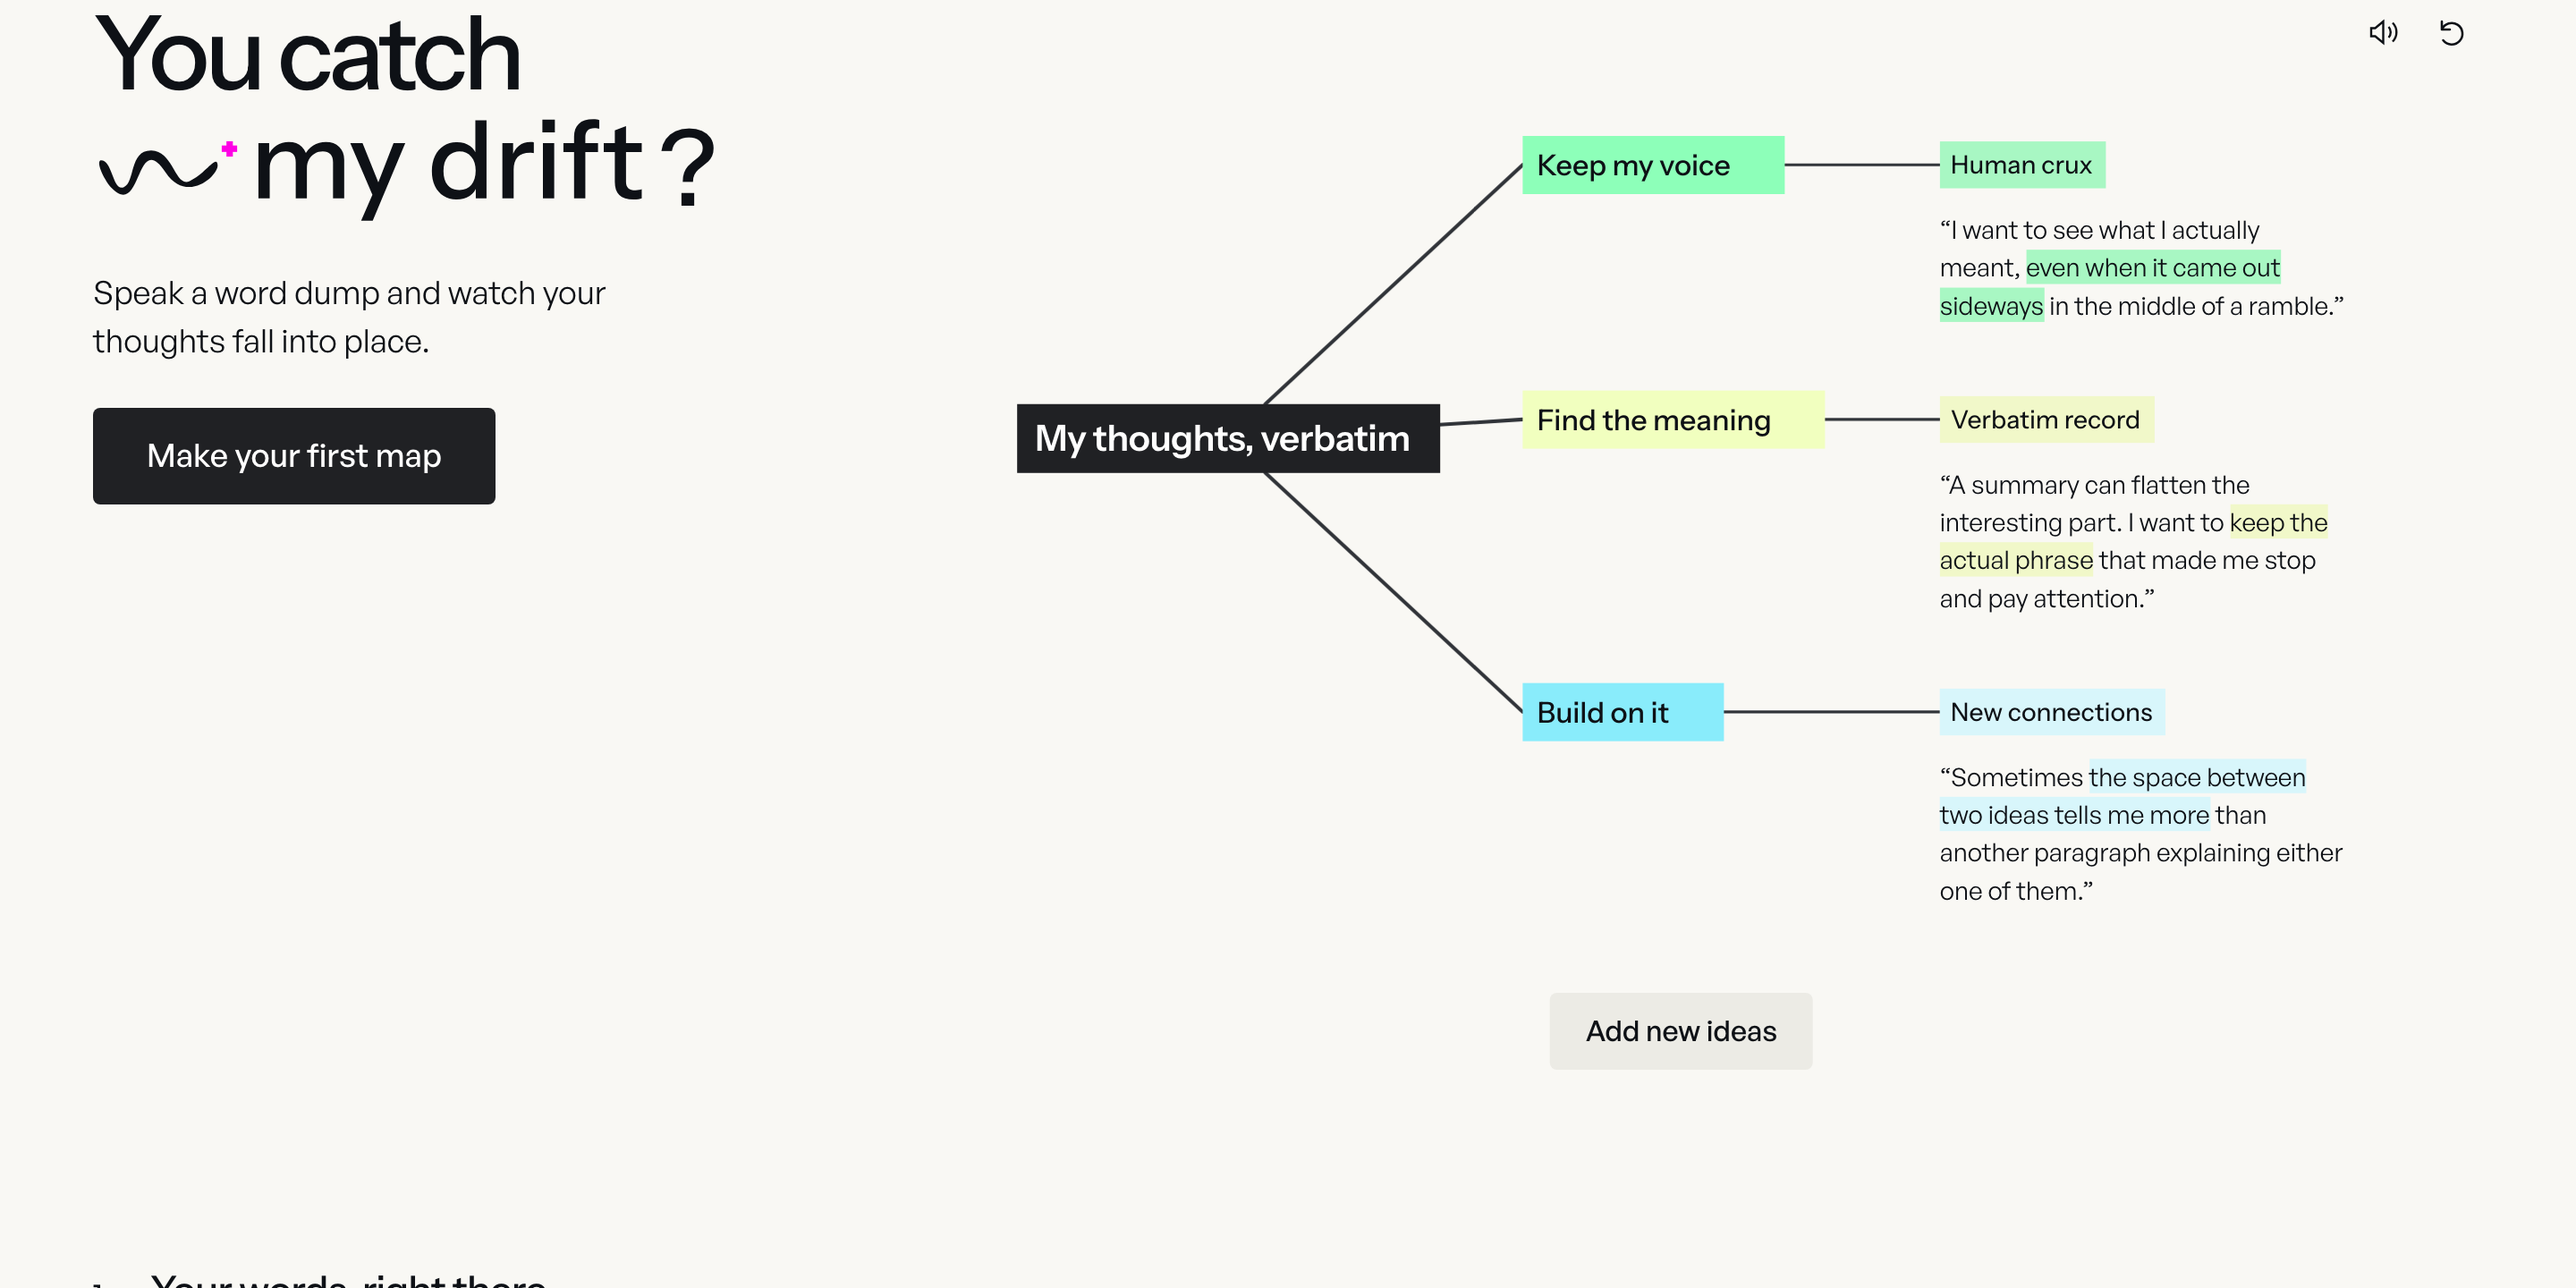
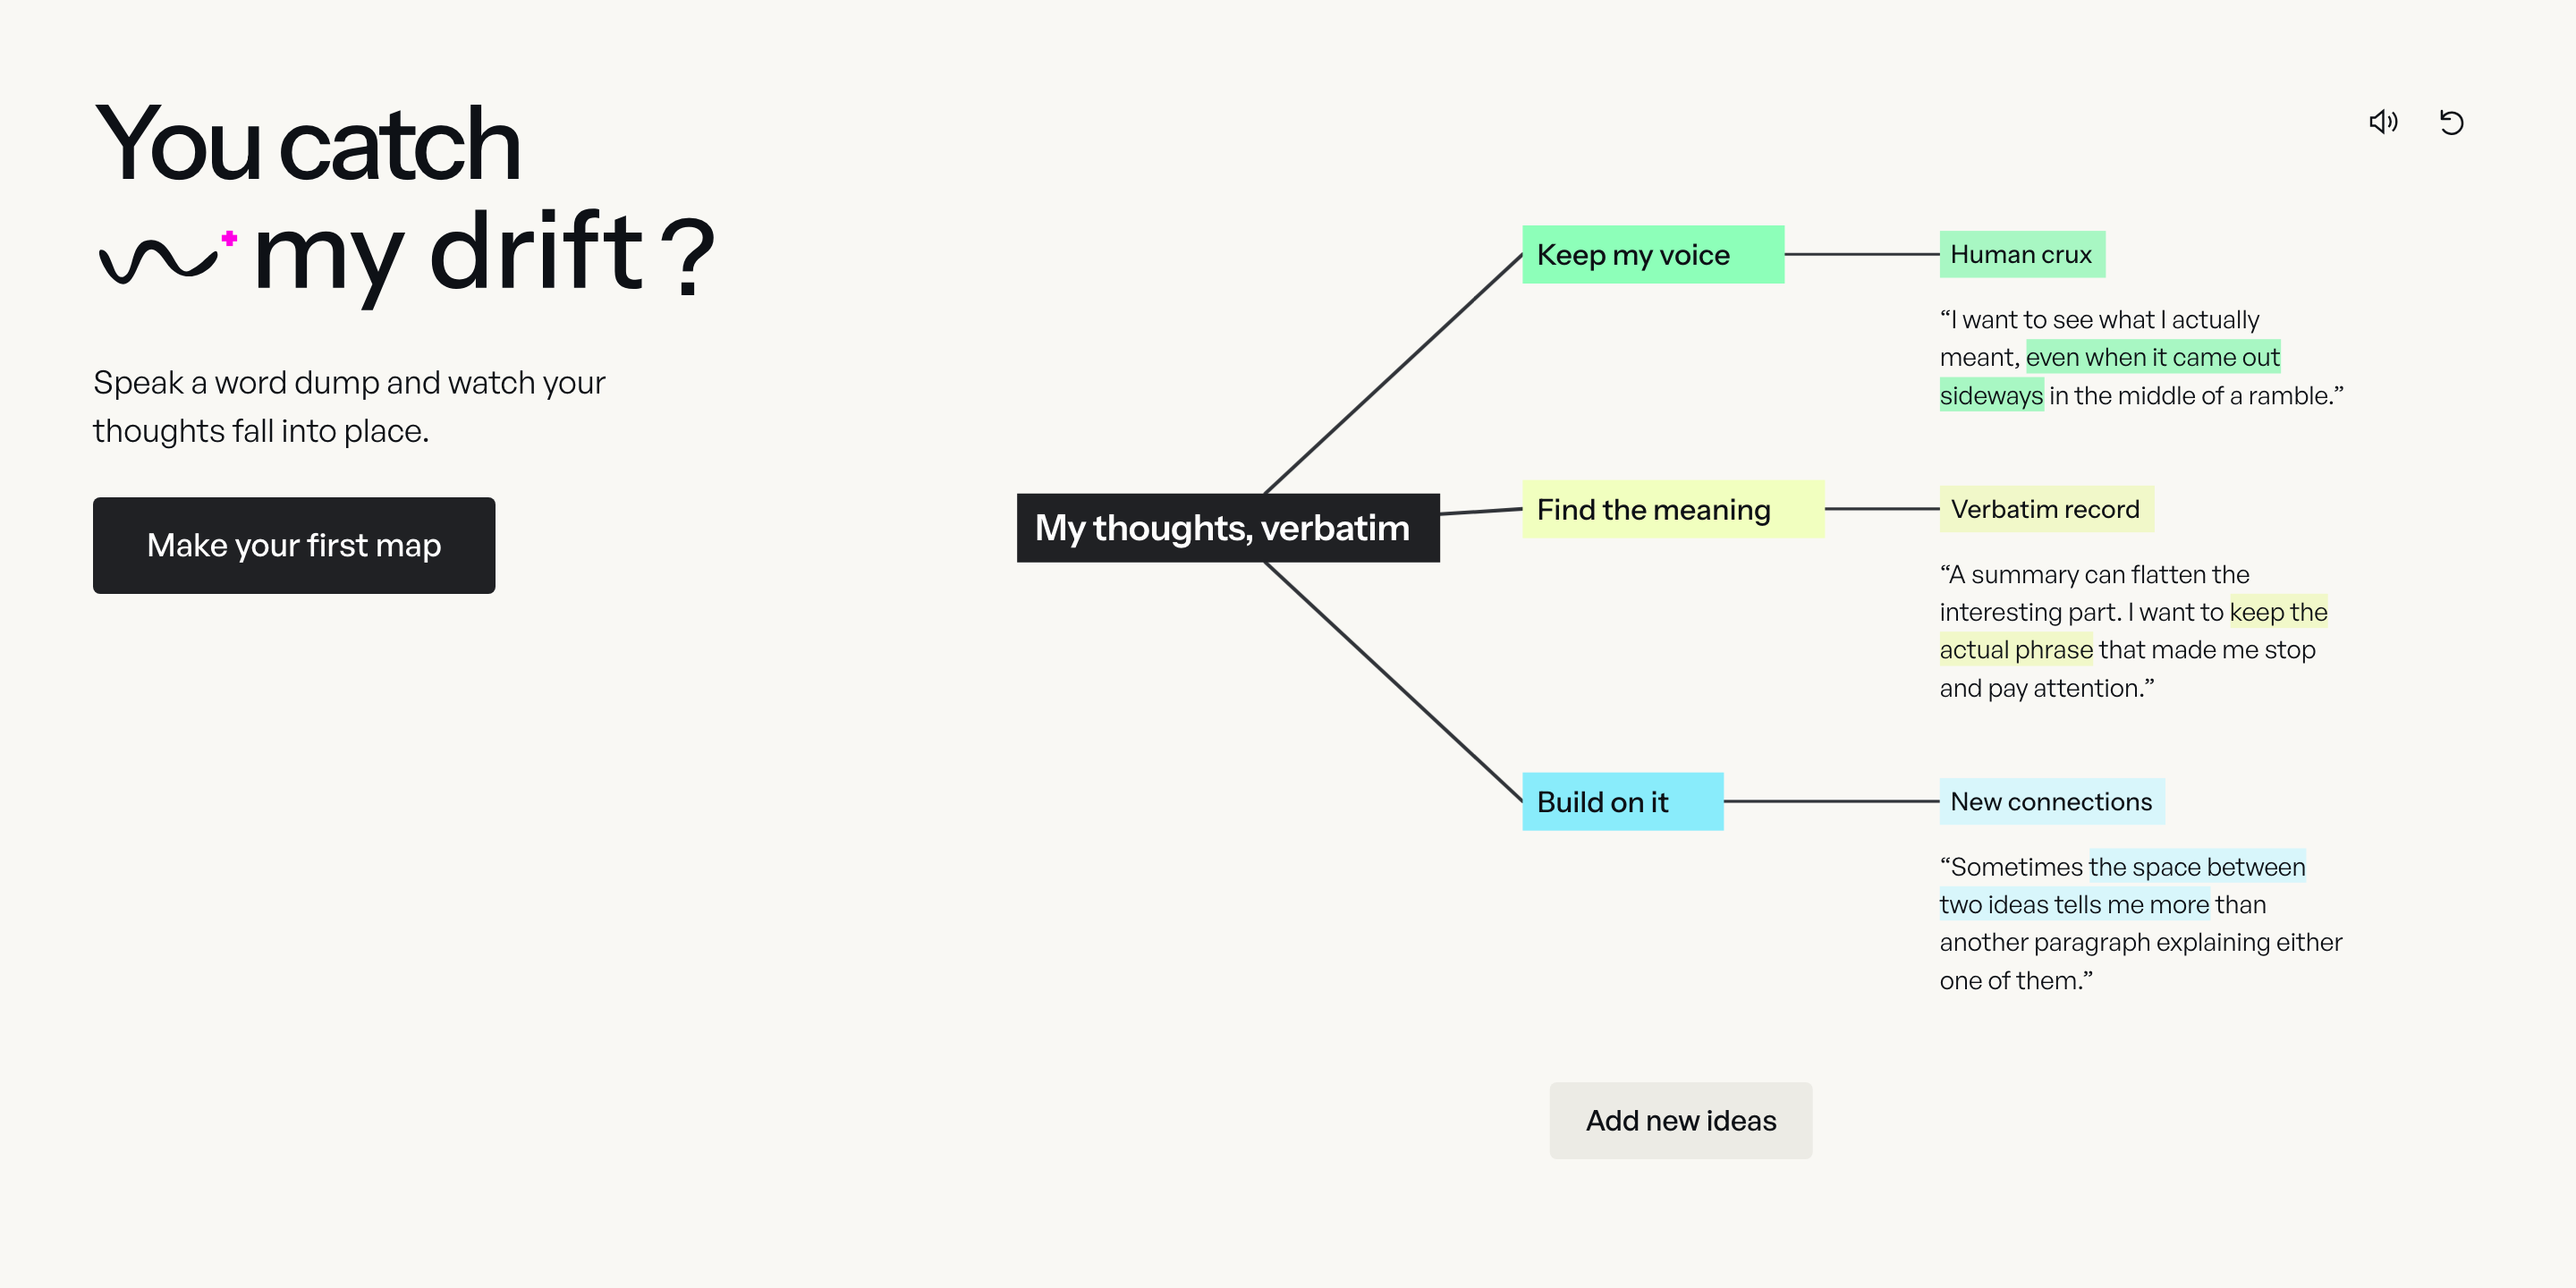
Centre the my drift hero and stop the next section clipping it (#10)
The welcome screenshot is recropped so the map sits in the middle of the
frame. The hero figure gets room at the bottom: the run below draws its wall
up into the padding, which cut the left half of the image short.

diff --git a/app/project/[slug]/ProjectView.tsx b/app/project/[slug]/ProjectView.tsx
@@ -264,7 +264,7 @@ export default function LabView({ project, listing }: { project: Project; listin
 
         {/* ── the lead figure, full width under the header ── */}
         {hero && !heroNarrow && (
-          <div className="lb-wide">
+          <div className="lb-wide lb-hero">
             <figure className="lb-fig">
               <img src={hero.src} alt={hero.alt} className={hero.plate ? 'lb-plate' : undefined} />
             </figure>
@@ -520,6 +520,8 @@ const CSS = `
   .lb-text { padding: 2.25rem var(--gut) 1.5rem 0; }
   .lb-half { max-width: calc(50% - var(--wall) / 2 - var(--gut)); }
   .lb-wide-text { padding-bottom: 1.5rem; }
+  /* the run below draws its wall up into this padding, so leave the figure clear of it */
+  .lb-hero { padding-bottom: calc(1.25rem + var(--wall)); }
   .lb-wide > .lb-b-subheader { max-width: calc(50% - var(--wall) / 2 - var(--gut)); }
 
   .lb-b + .lb-b { margin-top: 1.9rem; }
